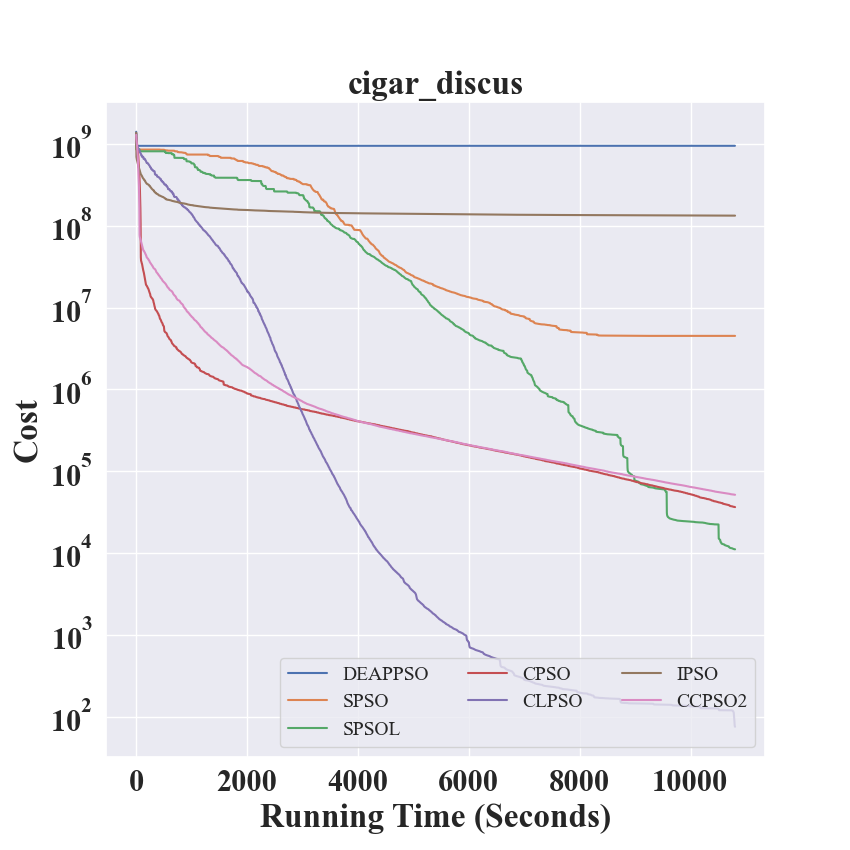
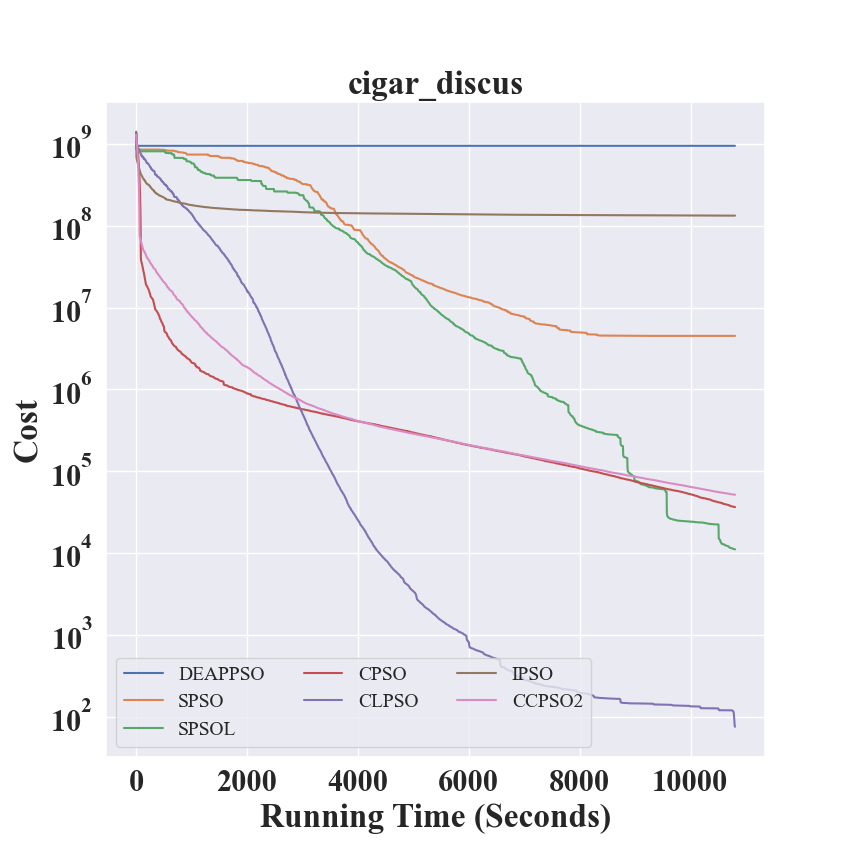
Update docs/pypop7_benchmarks_lso/single-core/compare_efficiency_pso.py

diff --git a/docs/pypop7_benchmarks_lso/single-core/compare_efficiency_pso.py b/docs/pypop7_benchmarks_lso/single-core/compare_efficiency_pso.py
@@ -69,7 +69,7 @@ if __name__ == '__main__':
         plt.title(f, fontsize=24, fontweight='bold')
         plt.xticks(fontsize=22, fontweight='bold')
         plt.yticks(fontsize=22, fontweight='bold')
-        plt.legend(loc=4, ncol=3, fontsize=14)
+        plt.legend(loc='best', ncol=3, fontsize=14)
         plt.rcParams['font.family'] = 'Times New Roman'
         plt.savefig('./figures/PSOs-' + f + '.png', format='png')
         plt.show()
